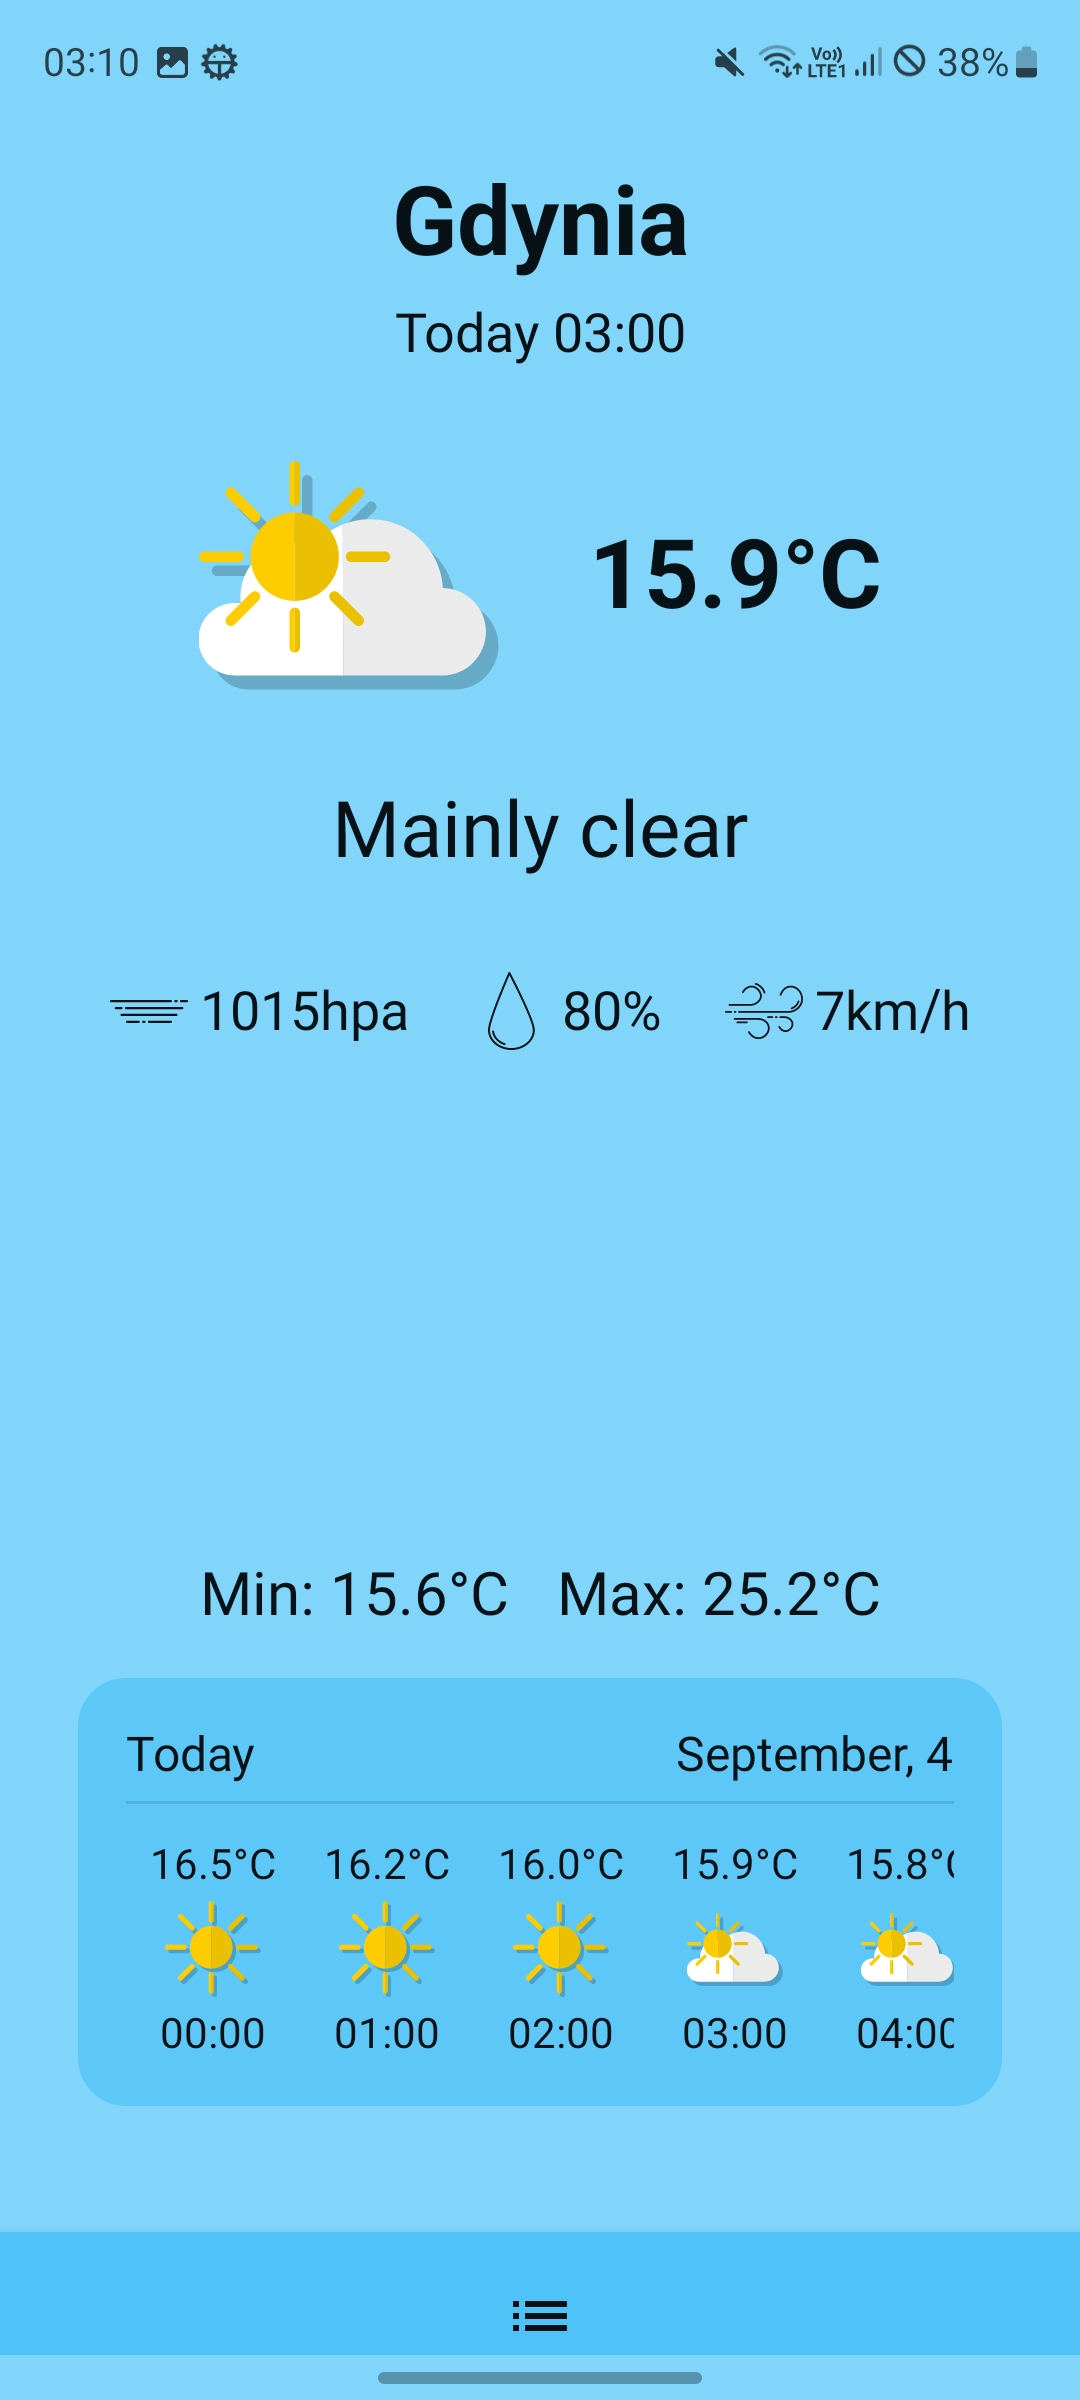
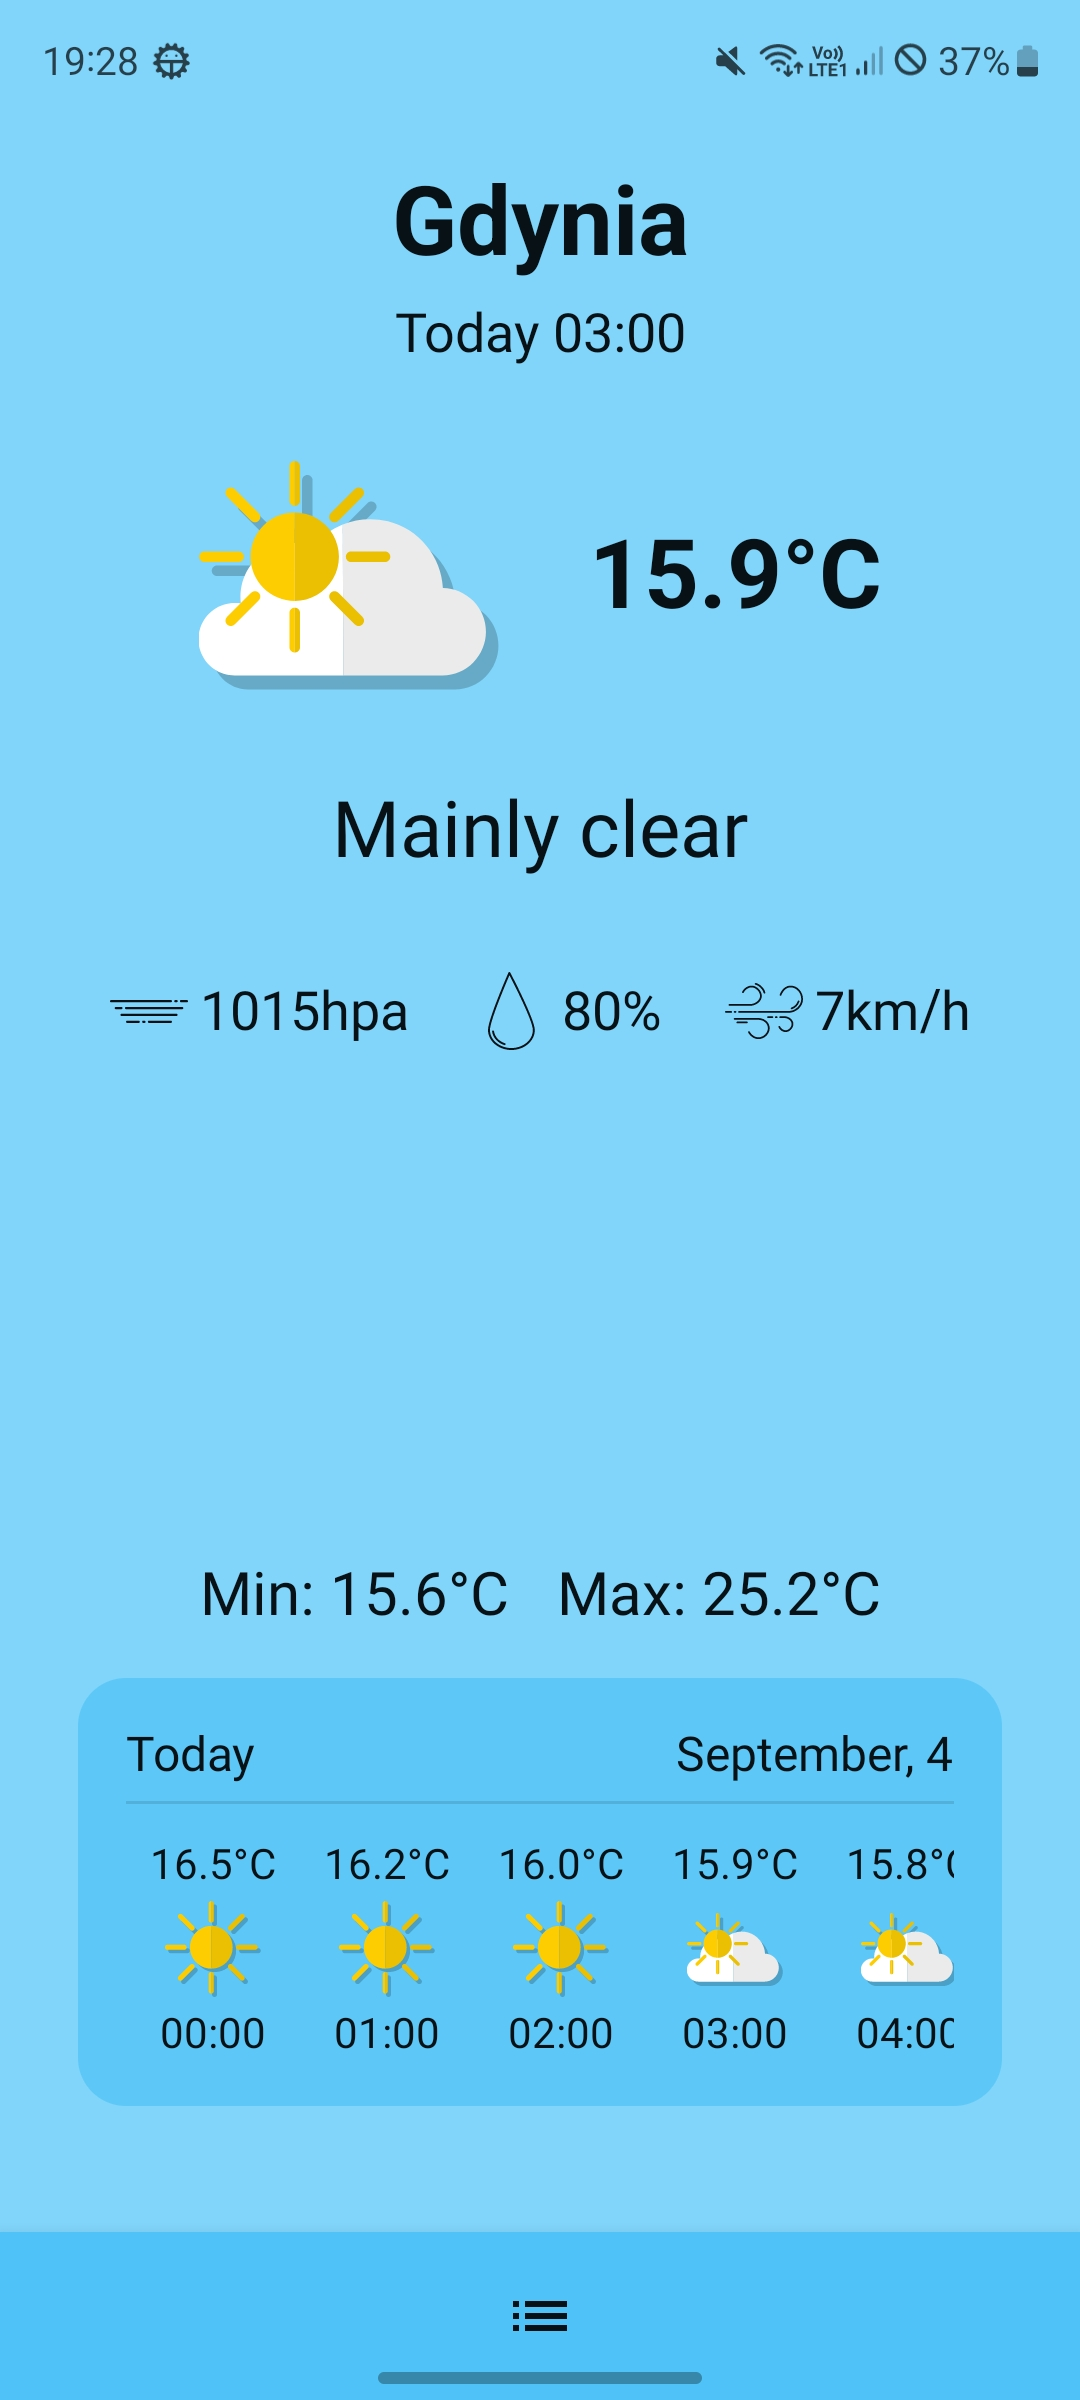
final commit

diff --git a/app/src/main/java/com/example/aaronweather/MainActivity.kt b/app/src/main/java/com/example/aaronweather/MainActivity.kt
@@ -52,12 +52,14 @@ fun SystemAppearance(
 		if(weatherVM.weatherState.weatherInfo?.currentWeatherData?.weatherType?.textColor == Color.White) false else true
 	val color =
 		weatherVM.weatherState.weatherInfo?.currentWeatherData?.weatherType?.bgColor ?: Color.Gray
+	val navColor =
+		weatherVM.weatherState.weatherInfo?.currentWeatherData?.weatherType?.darkBgColor ?: Color.DarkGray
 
 	SideEffect {
 		WindowCompat.getInsetsController(window, view).apply {
 			isAppearanceLightStatusBars = darkIcon
 		}
 		window.statusBarColor = color.toArgb()
-		window.navigationBarColor = color.toArgb()
+		window.navigationBarColor = navColor.toArgb()
 	}
 }
